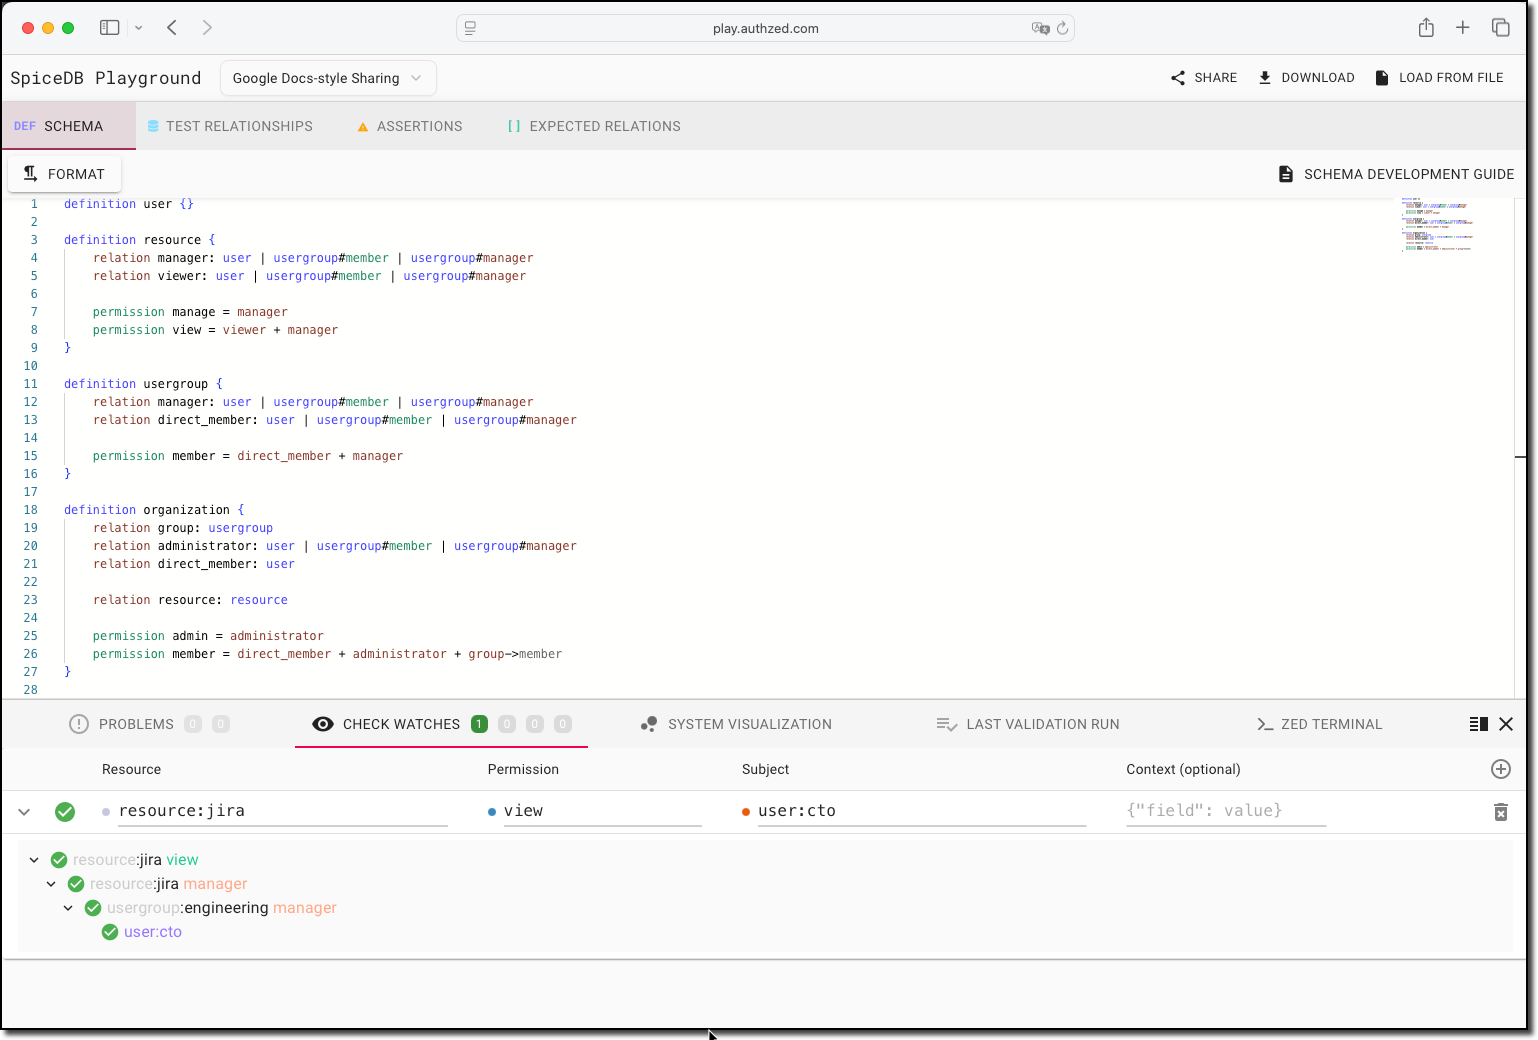
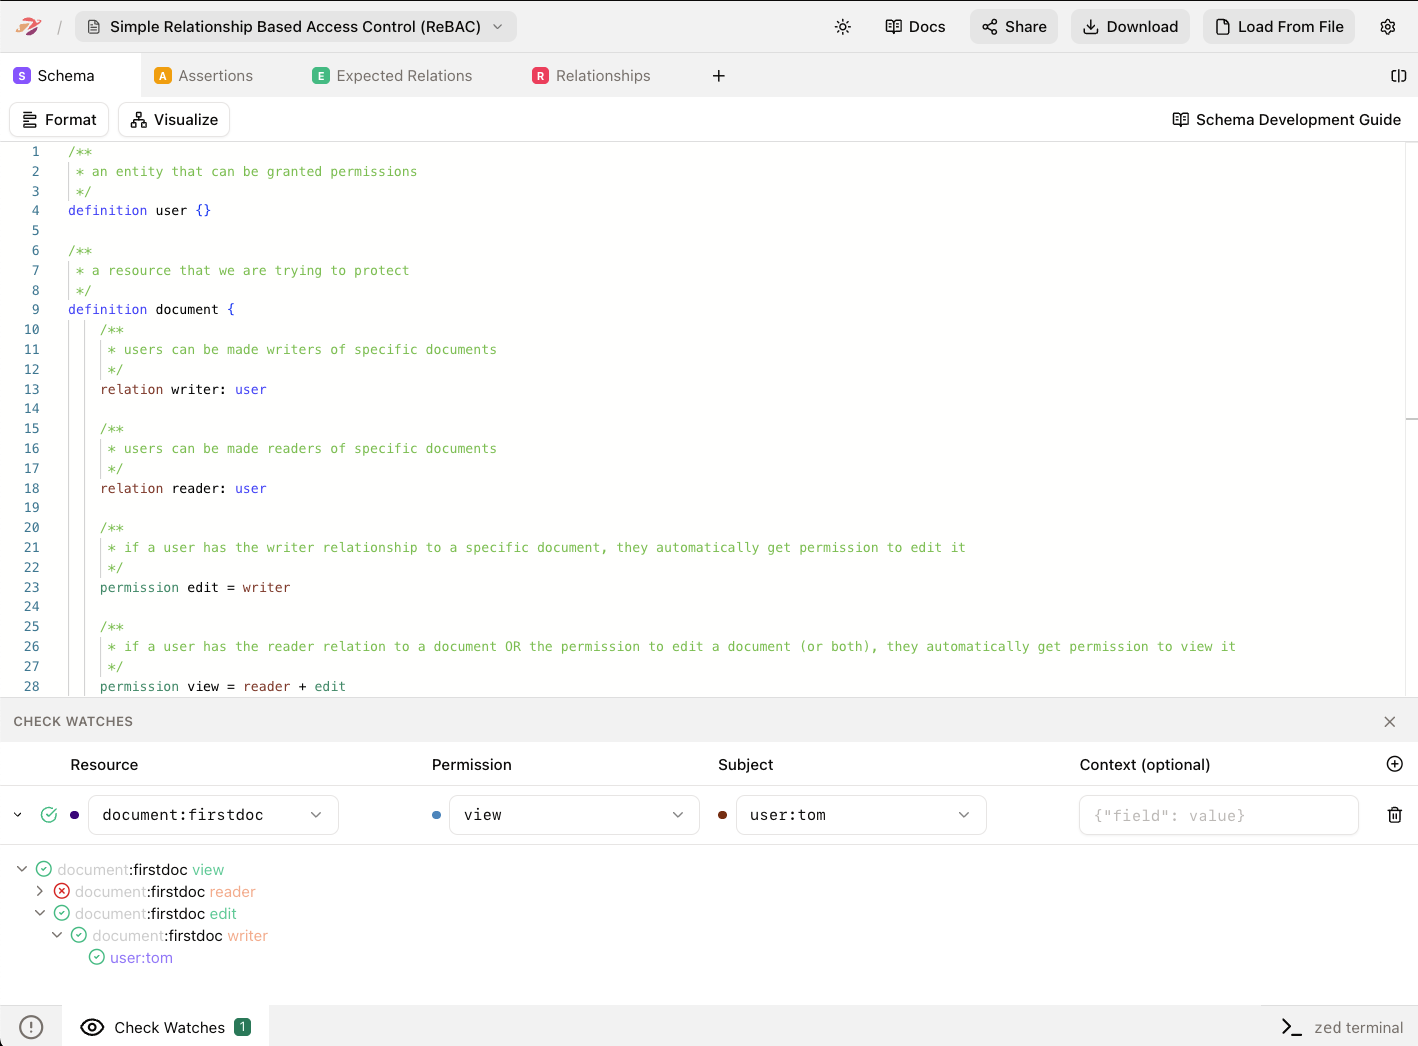
feat: add SEO metadata and social preview image
Enables indexing, adds a meta description, canonical URL, Open Graph
and Twitter Card tags, and an optimized social preview image. Also
drops references to app icons that don't exist in the repo.

diff --git a/index.html b/index.html
@@ -4,13 +4,37 @@
     <script src="/wasm_exec.js"></script>
 
     <meta charset="utf-8" />
-    <meta name="robots" content="noindex,nofollow" />
+    <meta name="robots" content="index, follow" />
     <link rel="icon" href="/favicon.svg" />
     <meta name="viewport" content="minimum-scale=1, initial-scale=1, width=device-width" />
     <meta name="theme-color" content="#000000" />
-    <link rel="apple-touch-icon" href="/logo192.png" />
     <link rel="manifest" href="/manifest.json" />
-    <title>SpiceDB Playground</title>
+    <link rel="canonical" href="https://play.authzed.com" />
+    <title>SpiceDB Playground | AuthZed</title>
+
+    <meta
+      name="description"
+      content="The SpiceDB Playground is an interactive app for building, testing, and iterating on application permission models without installing any software."
+    />
+
+    <meta property="og:type" content="website" />
+    <meta property="og:site_name" content="SpiceDB Playground" />
+    <meta property="og:url" content="https://play.authzed.com" />
+    <meta property="og:title" content="SpiceDB Playground | AuthZed" />
+    <meta
+      property="og:description"
+      content="The SpiceDB Playground is an interactive app for building, testing, and iterating on application permission models without installing any software. It lets developers write access control schemas, define test relationships, and run real-time checks using a WebAssembly-powered SpiceDB instance."
+    />
+    <meta property="og:image" content="https://play.authzed.com/[email redacted]" />
+
+    <meta name="twitter:card" content="summary_large_image" />
+    <meta name="twitter:site" content="@authzed" />
+    <meta name="twitter:title" content="SpiceDB Playground | AuthZed" />
+    <meta
+      name="twitter:description"
+      content="The SpiceDB Playground is an interactive app for building, testing, and iterating on application permission models without installing any software."
+    />
+    <meta name="twitter:image" content="https://play.authzed.com/[email redacted]" />
   </head>
 
   <body>